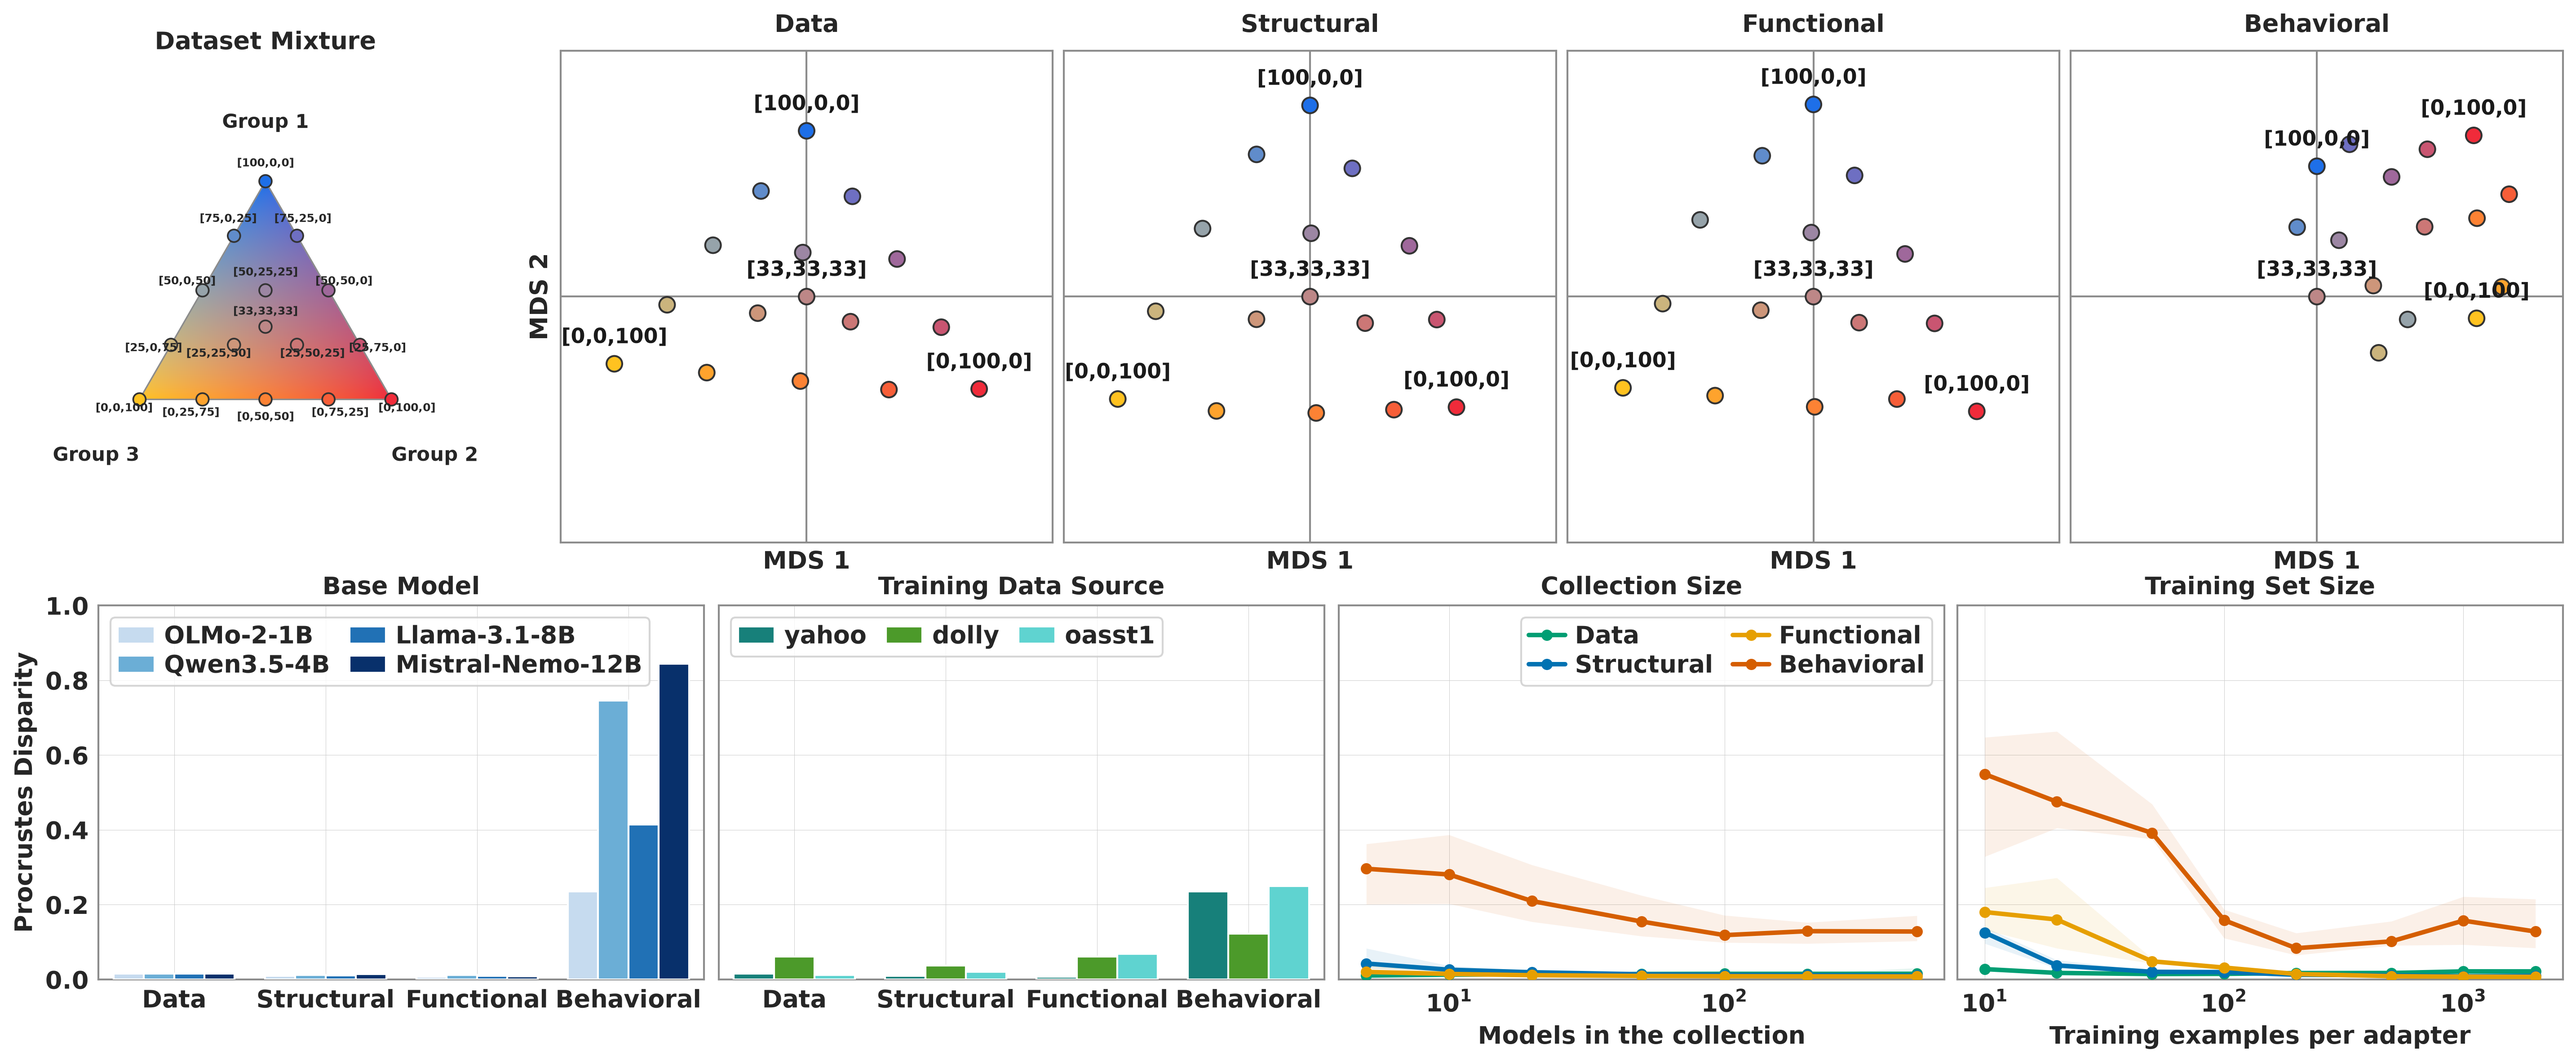
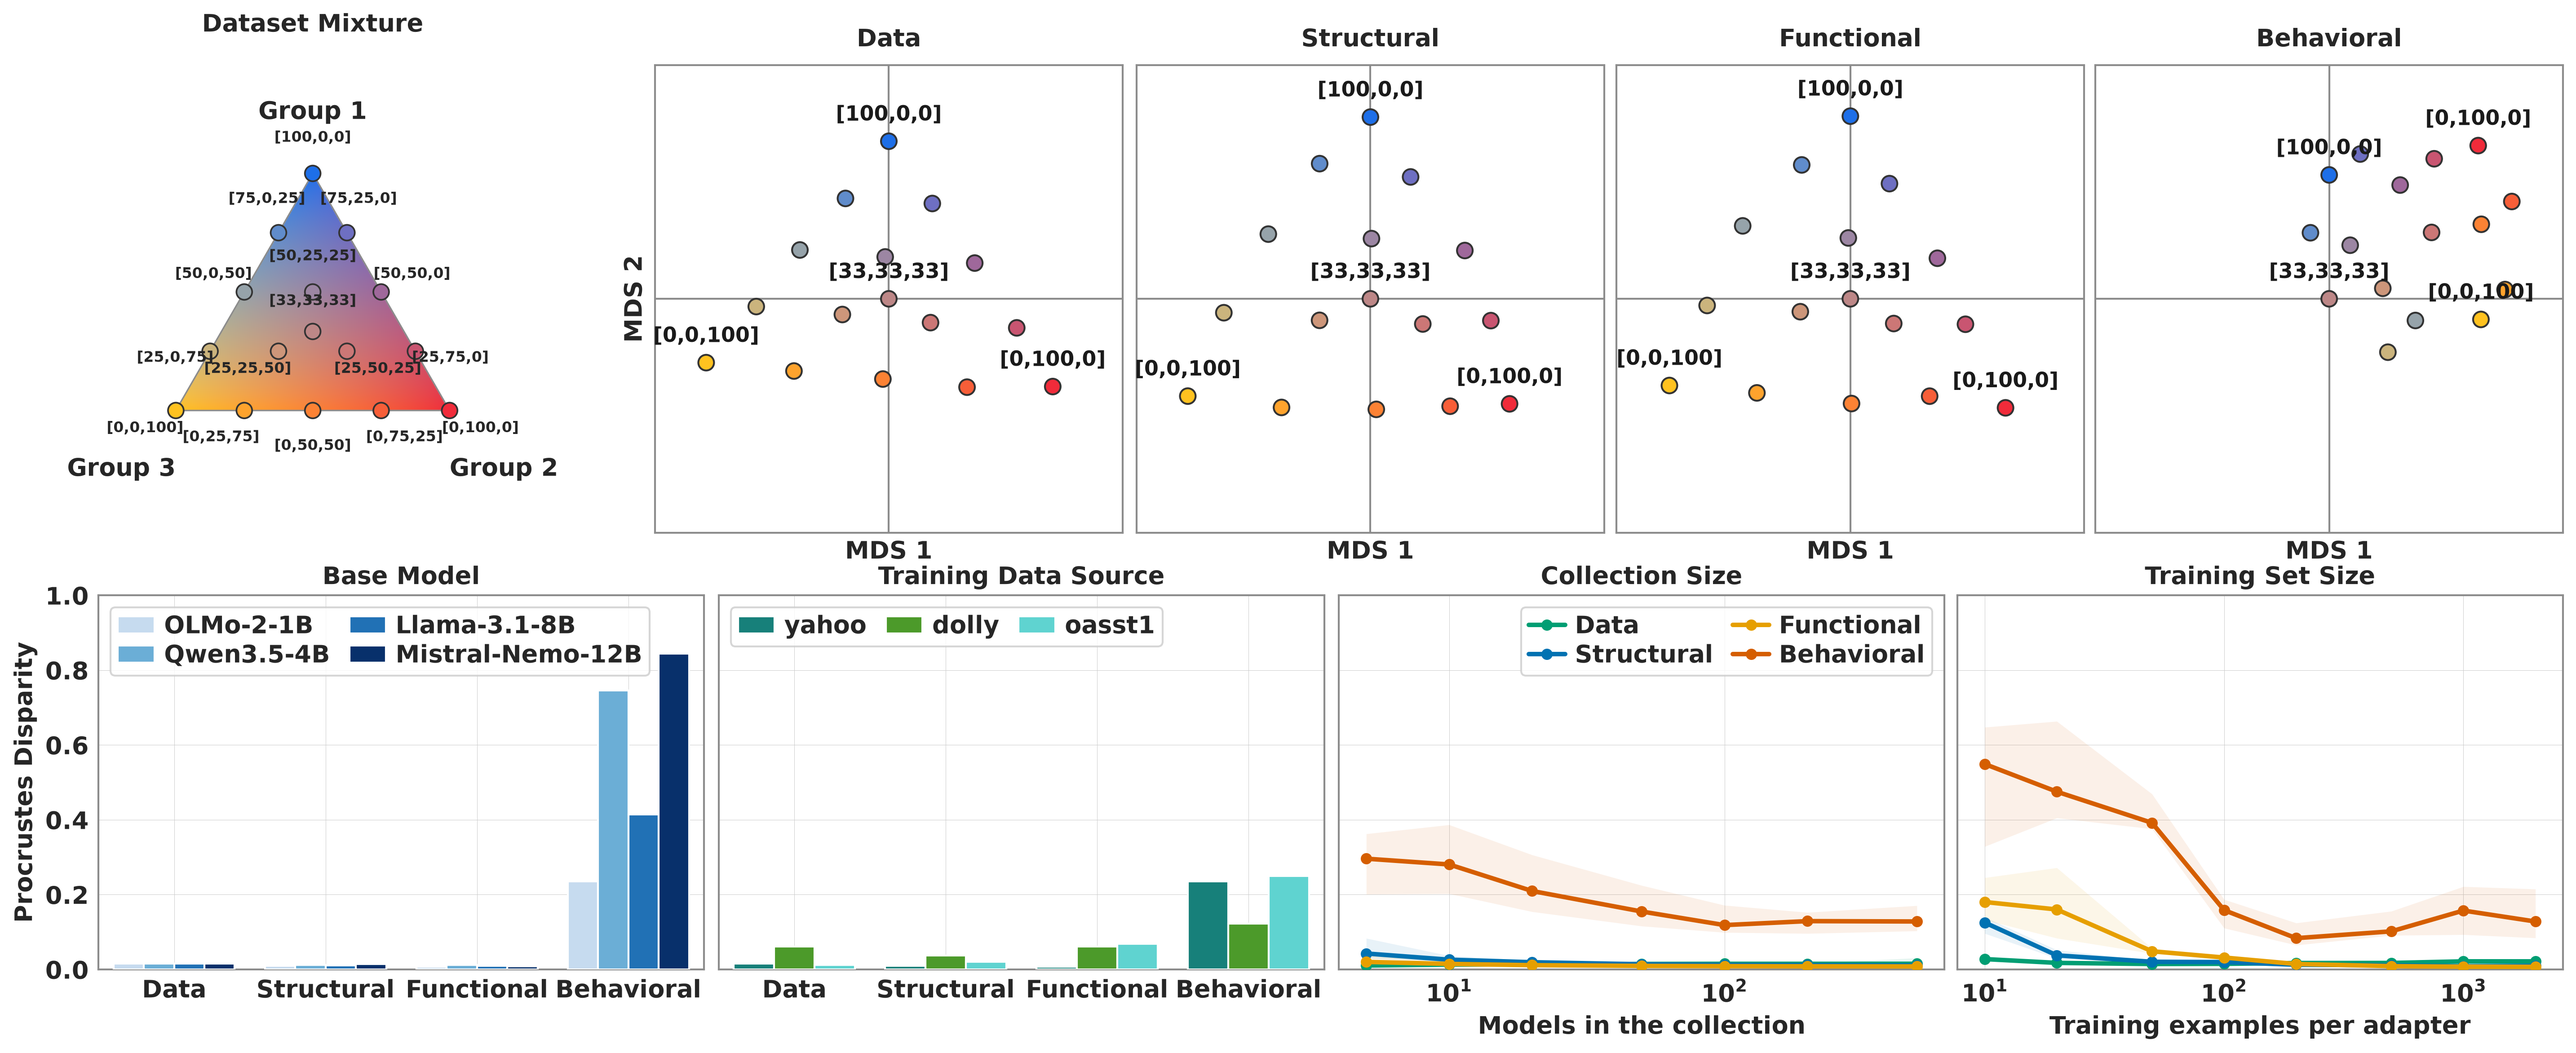
style(figure2): shrink the key's triangle, not the key
The previous commit scaled the whole key -- triangle, labels, vertex names,
markers -- when only the triangle was meant to give up room. The text and
the markers are sized against the rest of the figure, not against the
triangle they sit on, so they go back to full size: vertex names at
FONT_SIZE, mixture labels at the 8 pt they were exempted to, markers at the
same MIXTURE_MARKER_SIZE the MDS panels draw.

Only the margin around the triangle grows. Sixteen points drawn closer
together in inches crowd their labels, so ternary_legend gains
label_offset -- how far each label is pushed along its own radius -- and
this key sets it well past the 9.5 pt default.

Claude-Session: https://claude.ai/code/session_013wT22QHA98vYoz6C7ZiiGN

diff --git a/figures/figure2/make_figures.py b/figures/figure2/make_figures.py
@@ -257,26 +257,29 @@ MDS_AXES = ("MDS 1", "MDS 2")
 #: ``75/25/0`` and the bottom row of five is a single smear. The key is a dense
 #: legend rather than a panel, and this is the size at which it is readable as
 #: one. The three vertex *names* are unaffected and stay at FONT_SIZE.
-KEY_LABEL_SIZE = 6.0
+KEY_LABEL_SIZE = 8
 
-#: The key is drawn a fifth smaller than the panels beside it, in both the
-#: triangle and the text. It is a legend, not a fifth measurement, and at equal
-#: size it reads as the first of five findings; the extra margin is what buys
-#: the shrink, since the axes cell itself is fixed by the row's grid.
-KEY_SCALE = 0.8
+#: The *triangle* is drawn smaller than the panels beside it -- it is a legend,
+#: not a fifth measurement -- by widening the margin around it inside an axes
+#: cell the row's grid fixes. Nothing else in the key shrinks with it: the
+#: labels, the vertex names and the markers are text and marks, sized against
+#: the rest of the figure rather than against the triangle they sit on.
 KEY_PAD = 0.5
-KEY_VERTEX_SIZE = FONT_SIZE * KEY_SCALE
+KEY_VERTEX_SIZE = FONT_SIZE
+
+#: The labels are pushed further out along their radii than the default 9.5 pt,
+#: because the triangle they sit on is smaller while they are not: the sixteen
+#: points are closer together in inches, so the labels need more room to fan
+#: into. The vertex names clear this on their own -- see ``ternary_legend``.
+KEY_LABEL_OFFSET = 19.0
 KEY_TITLE = "Dataset Mixture"
 
 #: One marker area for every mixture point in the top row, key included. The
 #: key and the four MDS panels draw the same sixteen models, and a reader who
 #: looks up a point in the key and then finds it in a panel should be looking at
 #: the same mark; the two sources default to 26 and 130, which reads as two
-#: different kinds of thing. The key draws it at KEY_SCALE, like everything else
-#: in the key -- that is an area, so the scale is squared and the two markers
-#: stay the same mark at the two sizes the row is drawn at.
+#: different kinds of thing.
 MIXTURE_MARKER_SIZE = 70
-KEY_MARKER_SIZE = MIXTURE_MARKER_SIZE * KEY_SCALE ** 2
 
 #: The colour of every axis line in the figure -- the MDS crosshairs, the panel
 #: spines, and the key's triangle, which is that key's only frame. One value, so
@@ -459,8 +462,9 @@ def draw_top_row(fig, gs, levels: list[Level], cells, ids) -> None:
     ternary_legend(kax, ids, label_models=True,
                    vertex_names=group_display(3), show_topics=False,
                    label_size=KEY_LABEL_SIZE, vertex_size=KEY_VERTEX_SIZE,
-                   marker_size=KEY_MARKER_SIZE, label_fmt=bracket_label,
+                   marker_size=MIXTURE_MARKER_SIZE, label_fmt=bracket_label,
                    fill_points=True, pad=KEY_PAD, outline_color=AXIS_COLOR,
+                   label_offset=KEY_LABEL_OFFSET,
                    fontweight="bold", fontfamily=bold_capable_family())
     kax.set_title(KEY_TITLE, fontsize=FONT_SIZE, pad=10,
                   fontweight="bold", fontfamily=bold_capable_family())
@@ -737,7 +741,7 @@ def build(row: str, decoding: str, yscale: str = "log",
 
     r = 0
     if want_top:
-        draw_top_row(fig, outer[r].subgridspec(1, 5, width_ratios=[1.28 * KEY_SCALE] + [1.0] * 4),
+        draw_top_row(fig, outer[r].subgridspec(1, 5, width_ratios=[1.28] + [1.0] * 4),
                      top_levels, cells, ids)
         r += 1
     if want_bottom:

diff --git a/src/plots/simplex.py b/src/plots/simplex.py
@@ -470,6 +470,7 @@ def ternary_legend(
     fill_points: bool = False,
     pad: float | None = None,
     outline_color: str = "0.35",
+    label_offset: float = 9.5,
 ) -> plt.Axes:
     """Draw the filled simplex that the point colours are read from.
 
@@ -490,6 +491,9 @@ def ternary_legend(
     overrides the margin left around the triangle, which is what shrinks the
     drawn key inside a fixed axes; *outline_color* is the triangle's edge, which
     a figure drawing its own axes usually wants to match them.
+    *label_offset* is how far, in points, each mixture label is pushed out along
+    its own radius -- the lever for a key whose triangle is drawn small, where
+    the sixteen labels crowd at the default.
 
     **Three groups only.** ``_bary_to_xy`` maps onto a triangle and this function
     labels three corners; a tetrahedron has no honest 2-D barycentric picture, so
@@ -555,7 +559,8 @@ def ternary_legend(
             for (x, y), mid in zip(pts, model_ids):
                 d = np.array([x, y]) - mid_xy
                 n = np.linalg.norm(d)
-                dx, dy = (d / n * 9.5) if n > 1e-9 else (0.0, 8.0)
+                dx, dy = ((d / n * label_offset) if n > 1e-9
+                          else (0.0, label_offset * 0.85))
                 ax.annotate(
                     label_fmt(mid), xy=(x, y), xytext=(dx, dy),
                     textcoords="offset points", ha="center", va="center",
